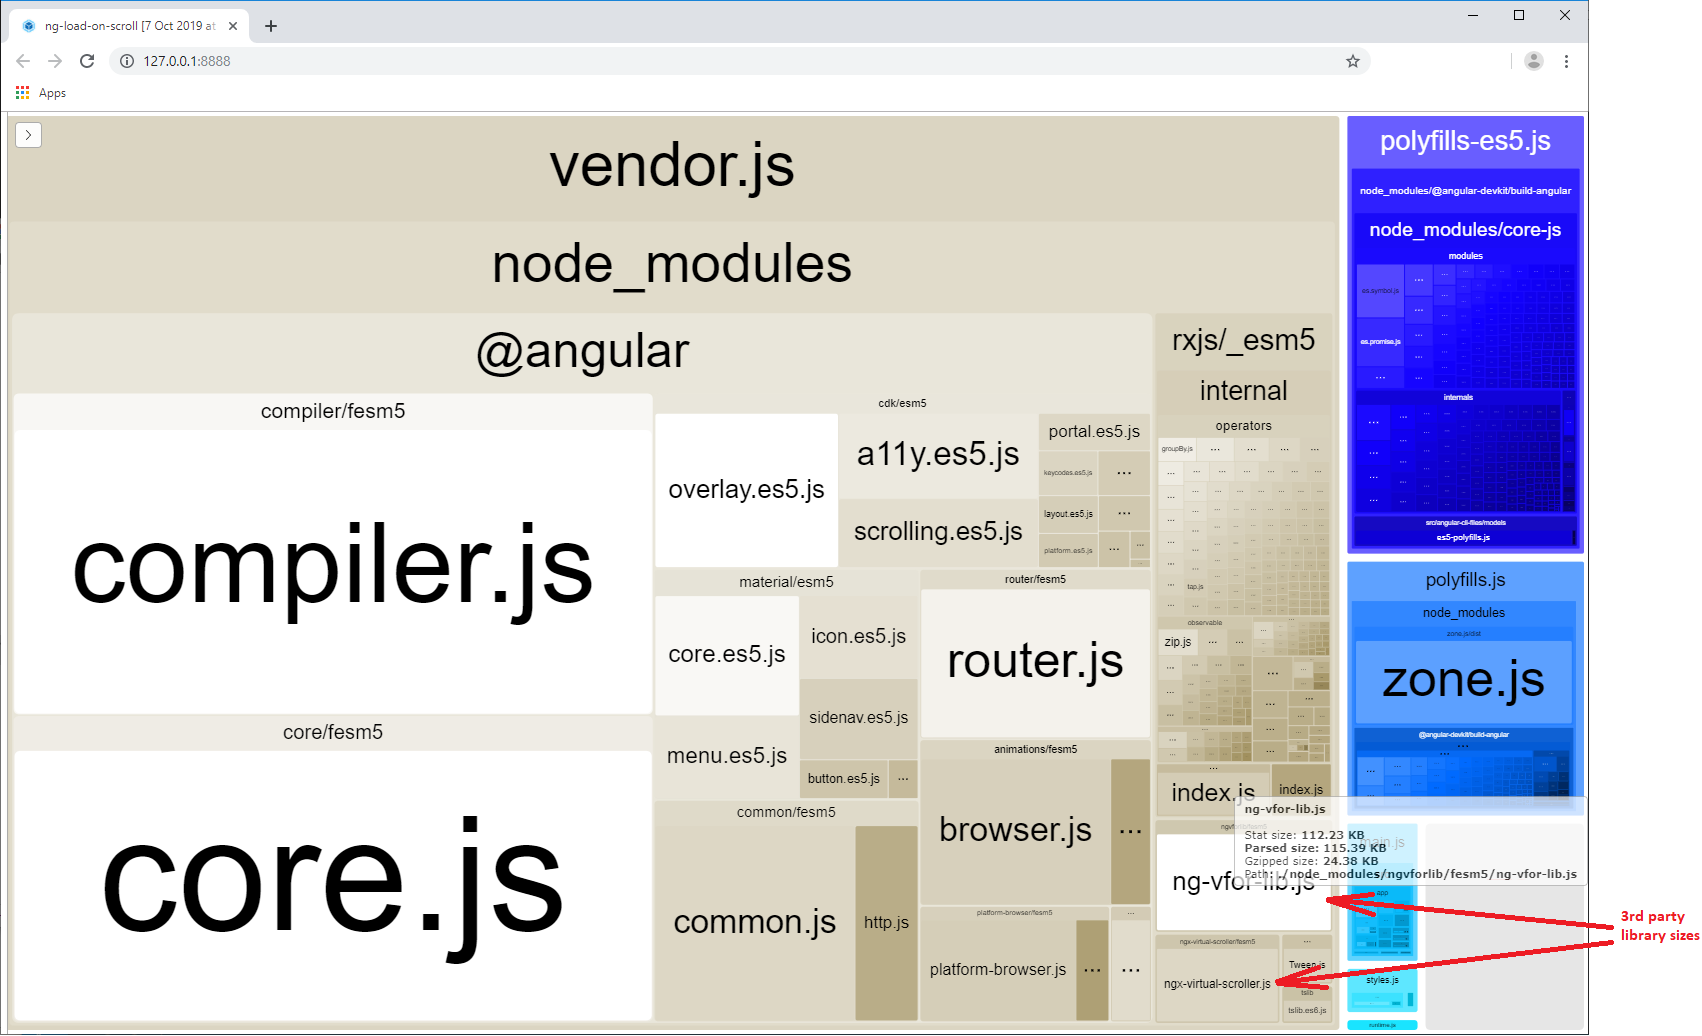
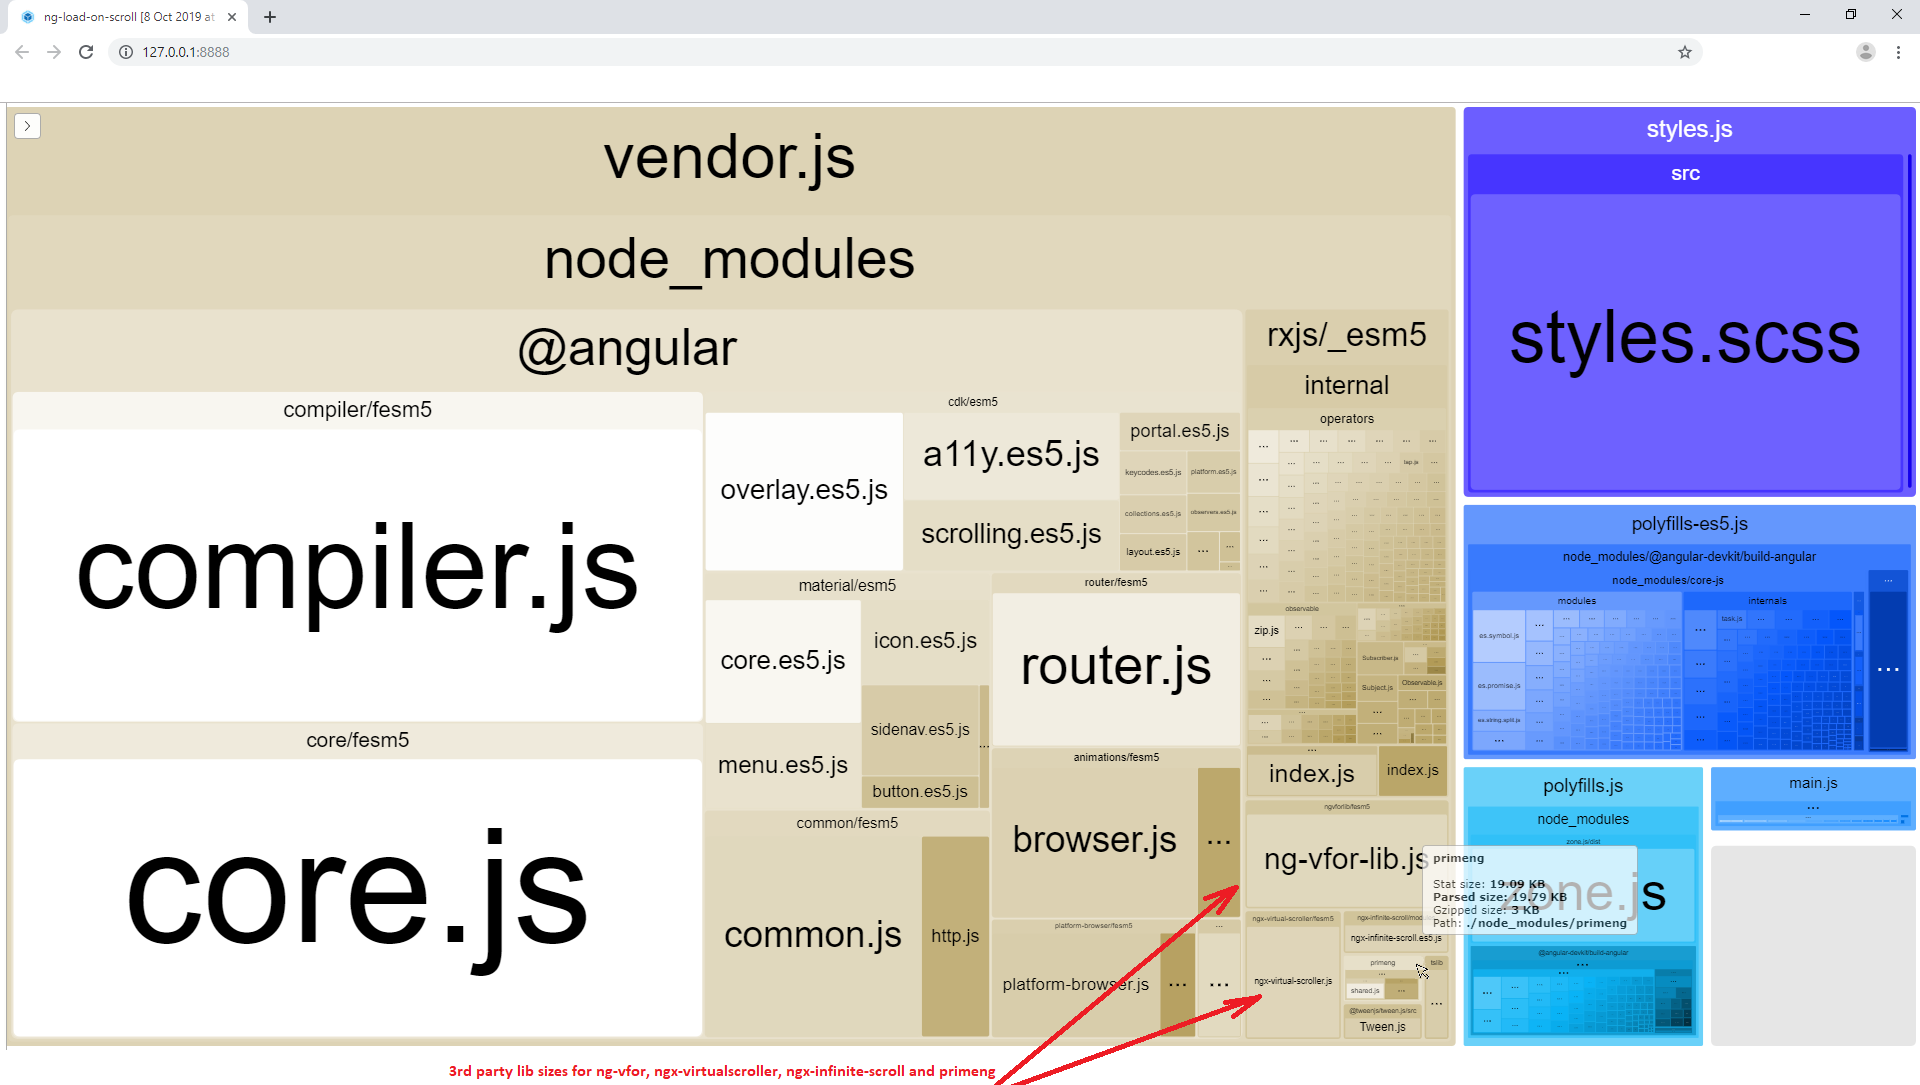
primeng implementation

diff --git a/src/app/primeng-scroll/primeng-scroll.component.ts b/src/app/primeng-scroll/primeng-scroll.component.ts
@@ -1,15 +1,67 @@
-import { Component, OnInit } from '@angular/core';
+import {AfterViewInit, Component, ElementRef, OnInit, ViewChild} from '@angular/core';
+import {EleData, LotOfDataService} from "../lot-of-data.service";
+import {LazyLoadEvent} from "primeng/api";
 
 @Component({
   selector: 'lons-primeng-scroll',
   templateUrl: './primeng-scroll.component.html',
   styleUrls: ['./primeng-scroll.component.scss']
 })
-export class PrimengScrollComponent implements OnInit {
+export class PrimengScrollComponent implements OnInit, AfterViewInit
+{
+  @ViewChild('scrollParent', { static: false })
+  public scrollParent : ElementRef = null;
+  public scrollHeight = "555px";
 
-  constructor() { }
+  public buffer: EleData[] = [];
+  public loading: boolean;
 
-  ngOnInit() {
+  constructor(protected lotOfDataService: LotOfDataService) { }
+
+  ngOnInit()
+  {
+    this.loadItemsLazy(null);
+  }
+  ngAfterViewInit(): void
+  {
+    this.setScrollHeight({target:{}});
   }
 
+  loadItemsLazy($event : LazyLoadEvent)
+  {
+    //event.first = First row offset
+    //event.rows = Number of rows per page
+    //this.buffer = load new chunk between first index and (first + rows) last index
+
+    const start: number = $event && $event.first ? $event.first : this.buffer.length;
+    const limit: number = $event && $event.rows ? $event.rows : 10;
+
+    // console.log("loadItemsLazy: start:"+start+" limit:"+limit);
+
+    this.loading = true;
+    this.lotOfDataService.fetchNextChunk(start, limit).then(chunk => {
+
+      this.buffer = chunk;
+      this.loading = false;
+      //console.log("loadItemsLazy: start:"+start+" limit:"+limit+" DONE. #buffer:"+this.buffer.length);
+
+    }, () => {
+      this.loading = false
+    });
+  }
+
+  get totalLazyItemsLength() : number
+  {
+    return LotOfDataService.ELEDATA_SIZE;
+  }
+  public setScrollHeight($event) : void
+  {
+    if(!this.scrollParent)
+      return;
+
+    const h = this.scrollParent.nativeElement.offsetHeight - 20;
+    //let h = (<HTMLElement>this.scrollParent.nativeElement).getBoundingClientRect().height - 70; //same as above
+    //console.log("h="+h+" <> "+$event.target.innerHeight);
+    this.scrollHeight = h + "px";
+  }
 }

diff --git a/src/app/primeng-scroll/primeng-scroll.component.html b/src/app/primeng-scroll/primeng-scroll.component.html
@@ -1,3 +1,23 @@
-<p>
-  https://www.primefaces.org/primeng/#/
-</p>
+<div style="background-color: #faf6eb;position: relative;display: block;overflow: hidden;height: 100%;" #scrollParent (window:resize)="setScrollHeight($event)">
+  <div>
+    https://www.primefaces.org/primeng/#/
+  </div>
+
+  <p-virtualScroller [value]="buffer" [scrollHeight]="scrollHeight" [itemSize]="100" [rows]="30" [cache]="false"
+                     [style]="{'height':'100% !important;'}"
+                     [lazy]="true" (onLazyLoad)="loadItemsLazy($event)" [totalRecords]="totalLazyItemsLength">
+    <!-- p-header>
+      List of Items with https://www.primefaces.org/primeng/#/
+    </p-header -->
+    <ng-template let-item pTemplate="item">
+      <lons-list-ele [data]="item">
+      </lons-list-ele>
+    </ng-template>
+    <ng-template pTemplate="loadingItem">
+      <div class="loader" *ngIf="loading" >
+        <img src="assets/spinner.gif" width="66px;">
+        <br>Loading...
+      </div>
+    </ng-template>
+  </p-virtualScroller>
+</div>

diff --git a/src/app/list-ele/list-ele.component.html b/src/app/list-ele/list-ele.component.html
@@ -1,5 +1,6 @@
 <div style="width:99%;margin: 3px;padding:3px;border-bottom-style: inset;border-bottom-width: 2px;border-bottom-color: #DDDDDD;" [style.background-color]="data.index % 2 === 0 ? '#EEEEEE':'#fcfbf7'">
-  <table style="width: 100%;">
+  <table style="width: 100%;"
+         [ngStyle]="{'height.px': expanded ? '133' : '', 'background-color': expanded ? '#f5aca6' : ''}">
     <tr>
       <td>
           <img src="assets/ngloadonscroll.gif" width="64px" style="float:left;">
@@ -14,7 +15,7 @@
         <div style="white-space: nowrap">{{data.name}}</div>
         <div style="white-space: nowrap">{{data.departement}}</div>
       </td>
-      <td style="width: 100%;text-align: right">
+      <td style="width: 100%;" class="buns">
         <div (click)="onClickBun()">
           <img *ngFor="let i of clk" src="assets/bun.png?{{data.index}}" width="32px">
         </div>

diff --git a/src/app/app.module.ts b/src/app/app.module.ts
@@ -25,6 +25,8 @@ import { VirtualScrollerModule } from 'ngx-virtual-scroller';
 
 import { InfiniteScrollModule } from 'ngx-infinite-scroll';
 
+import {VirtualScrollerModule as PrimeNGVirtualScrollerModule} from 'primeng/virtualscroller';
+
 @NgModule({
   declarations: [
     AppComponent,
@@ -47,6 +49,7 @@ import { InfiniteScrollModule } from 'ngx-infinite-scroll';
     VirtualScrollerModule,
     NgGUDCoreModule,
     InfiniteScrollModule,
+    PrimeNGVirtualScrollerModule,
   ],
   providers: [],
   bootstrap: [AppComponent]

diff --git a/src/styles.scss b/src/styles.scss
@@ -2,6 +2,10 @@
 
 @import '../node_modules/@angular/material/prebuilt-themes/deeppurple-amber.css';
 
+@import '../node_modules/primeicons/primeicons.css';
+@import '../node_modules/primeng/resources/themes/nova-light/theme.css';
+@import '../node_modules/primeng/resources/primeng.min.css';
+
 .loader {
   text-align: center;
   background-color: #f0b81f;

diff --git a/src/index.html b/src/index.html
@@ -11,5 +11,4 @@
   <lons-root></lons-root>
 </body>
 <link href="https://fonts.googleapis.com/icon?family=Material+Icons&display=block" rel="stylesheet"><!-- <mat-icon aria-label="home icon">home</mat-icon> -->
-<!-- link href="node_modules/@angular/material/prebuilt-themes/indigo-pink.css" rel="stylesheet" -->
 </html>

diff --git a/src/app/primeng-scroll/primeng-scroll.component.scss b/src/app/primeng-scroll/primeng-scroll.component.scss
@@ -1,0 +1,12 @@
+.ui-virtualscroller	//Container element
+{
+  background-color: red !important;
+}
+.ui-virtualscroller-content	//Content section.
+{
+  background-color: yellow !important;
+}
+.ui-virtualscroller-list //List element.
+{
+  background-color: green !important;
+}

diff --git a/src/app/list-ele/list-ele.component.scss b/src/app/list-ele/list-ele.component.scss
@@ -1,0 +1,15 @@
+.buns {
+  text-align: right;
+  background-color: #dae4f5;
+
+  border-radius: 25px;
+  border: 1px solid #73AD21;
+}
+
+
+@media (max-width: 60em) {
+  .buns {
+    text-align: left;
+    background-color: #e7f5df;
+  }
+}

diff --git a/src/app/list-ele/list-ele.component.ts b/src/app/list-ele/list-ele.component.ts
@@ -26,4 +26,9 @@ export class ListEleComponent implements OnInit
   {
     this.clk.push(this.clk.length);
   }
+  get expanded() : boolean
+  {
+    const b: boolean = this.clk.length > 9;
+    return b;
+  }
 }

diff --git a/README.md b/README.md
@@ -10,28 +10,36 @@ ng serve --host 0.0.0.0 --disableHostCheck true
 
 <img src="src/assets/ngloadonscroll.gif" />
 
-WORK IN PROGRESS
 
-### Virtual (=lazy-loaded) List Libs:
+## Virtual (=lazy-loaded) List Libs:
 
-1.  https://github.com/rintoj/ngx-virtual-scroller
+### 1.  https://github.com/rintoj/ngx-virtual-scroller
     > npm install ngx-virtual-scroller --save
     
-1. https://github.com/anagram4wander/ng-vfor-lib
+### 2. https://github.com/anagram4wander/ng-vfor-lib
   ```sh
       npm install ngvforlib --save
       -- after the installation, unpack received tgz, but keep package.json
   ```
-  
-   * TODO: check if https://github.com/jamaks/ng-vfor-lib is better.!?
+#### Gotchas
+   * No working npm install package available
+   * TODO: check if the fork https://github.com/jamaks/ng-vfor-lib is better.!?
    * TODO: how to reset ele values on list-ele reuse?
   
-1. https://github.com/orizens/ngx-infinite-scroll
-  > npm install ngx-infinite-scroll --save
+### 3. https://github.com/orizens/ngx-infinite-scroll
+    > npm install ngx-infinite-scroll --save
 
-1. https://www.primefaces.org/primeng/#/
-
-### Lib Sizes:
+### 4. https://www.primefaces.org/primeng/#/
+  ```sh
+  npm install primeng --save
+  npm install primeicons --save
+  ```
+#### Gotchas
+   * TODO: how to reset ele values on list-ele reuse?
+   * TODO: how to handle item height change?
+   * Relative Size (eg. 100%) not possible > manual resize necessary
+  
+## Lib Sizes:
 1. visualize lib size to see, which lib is small enough
 ```sh
   npm install --save-dev webpack-bundle-analyzer
